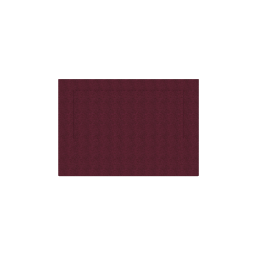
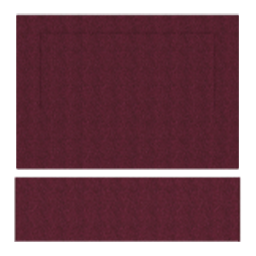
Update Empresa UK imagery.

diff --git a/src/empresa-uk/data/bedVariants.ts b/src/empresa-uk/data/bedVariants.ts
@@ -18,7 +18,7 @@ export interface Options {
 
 export const bedVariants: BedVariants = {
 	wooden: {
-		ARC: [
+		Arc: [
 			{ title: "Vicenza Oak", options: { quickship: true } },
 			{ title: "Natural Lancaster Oak", options: {} },
 			{ title: "Lissa Oak", options: {} },
@@ -144,7 +144,7 @@ export const bedVariants: BedVariants = {
 			{ title: "Anthracite Fineline Metallic", options: {} },
 			{ title: "Sand Orleans Oak", options: {} },
 		],
-		"Custom ARC": [
+		"Custom Arc": [
 			{ title: "Vicenza Oak", options: {} },
 			{ title: "Natural Lancaster Oak", options: {} },
 			{ title: "Lissa Oak", options: {} },
@@ -169,7 +169,7 @@ export const bedVariants: BedVariants = {
 			{ title: "Hessian", options: {} },
 			{ title: "Steel", options: {} },
 			{ title: "Dove", options: {} },
-			{ title: "Charbis", options: {} },
+			{ title: "Chablis", options: {} },
 			{ title: "Sky", options: {} },
 			{ title: "Ocean", options: {} },
 			{ title: "Fern Green", options: {} },
@@ -187,7 +187,7 @@ export const bedVariants: BedVariants = {
 			{ title: "Hessian", options: {} },
 			{ title: "Steel", options: {} },
 			{ title: "Dove", options: {} },
-			{ title: "Charbis", options: {} },
+			{ title: "Chablis", options: {} },
 			{ title: "Sky", options: {} },
 			{ title: "Ocean", options: {} },
 			{ title: "Fern Green", options: {} },
@@ -205,7 +205,7 @@ export const bedVariants: BedVariants = {
 			{ title: "Hessian", options: {} },
 			{ title: "Steel", options: {} },
 			{ title: "Dove", options: {} },
-			{ title: "Charbis", options: {} },
+			{ title: "Chablis", options: {} },
 			{ title: "Sky", options: {} },
 			{ title: "Ocean", options: {} },
 			{ title: "Fern Green", options: {} },
@@ -223,7 +223,7 @@ export const bedVariants: BedVariants = {
 			{ title: "Hessian", options: {} },
 			{ title: "Steel", options: {} },
 			{ title: "Dove", options: {} },
-			{ title: "Charbis", options: {} },
+			{ title: "Chablis", options: {} },
 			{ title: "Sky", options: {} },
 			{ title: "Ocean", options: {} },
 			{ title: "Fern Green", options: {} },
@@ -241,7 +241,7 @@ export const bedVariants: BedVariants = {
 			{ title: "Hessian", options: {} },
 			{ title: "Steel", options: {} },
 			{ title: "Dove", options: {} },
-			{ title: "Charbis", options: {} },
+			{ title: "Chablis", options: {} },
 			{ title: "Sky", options: {} },
 			{ title: "Ocean", options: {} },
 			{ title: "Fern Green", options: {} },
@@ -259,7 +259,7 @@ export const bedVariants: BedVariants = {
 			{ title: "Hessian", options: {} },
 			{ title: "Steel", options: {} },
 			{ title: "Dove", options: {} },
-			{ title: "Charbis", options: {} },
+			{ title: "Chablis", options: {} },
 			{ title: "Sky", options: {} },
 			{ title: "Ocean", options: {} },
 			{ title: "Fern Green", options: {} },

diff --git a/src/empresa-uk/Select/SelectSide.svelte b/src/empresa-uk/Select/SelectSide.svelte
@@ -24,7 +24,7 @@
     }}
   >
     <SelectionGridItemImage
-      src={`/images/empresa/sidePanels_preview/noSidePanel.jpg`}
+      src={`/images/empresa-uk/sidePanels_preview/noSidePanel.png`}
       alt="No side panels"
     />
   </SelectionGridItem>
@@ -43,7 +43,7 @@
     }}
   >
     <SelectionGridItemImage
-      src={`/images/empresa/sidePanels_preview/noSidePanel.jpg`}
+      src={`/images/empresa-uk/sidePanels_preview/withSidePanel.png`}
       alt="With side panels"
     />
   </SelectionGridItem>

diff --git a/src/empresa-uk/Select/SelectHeadboard.svelte b/src/empresa-uk/Select/SelectHeadboard.svelte
@@ -44,7 +44,7 @@
       }}
     >
       <SelectionGridItemImage
-        src={`/images/empresa/headboards_preview/${title}.jpg`}
+        src={`/images/empresa-uk/headboards_preview/${title}.png`}
         alt={title}
       />
     </SelectionGridItem>

diff --git a/src/empresa-uk/data/fabrics.ts b/src/empresa-uk/data/fabrics.ts
@@ -3,7 +3,7 @@ export const fabricsOrder = [
 	"Hessian",
 	"Steel",
 	"Dove",
-	"Charbis",
+	"Chablis",
 	"Sky",
 	"Ocean",
 	"Fern Green",
